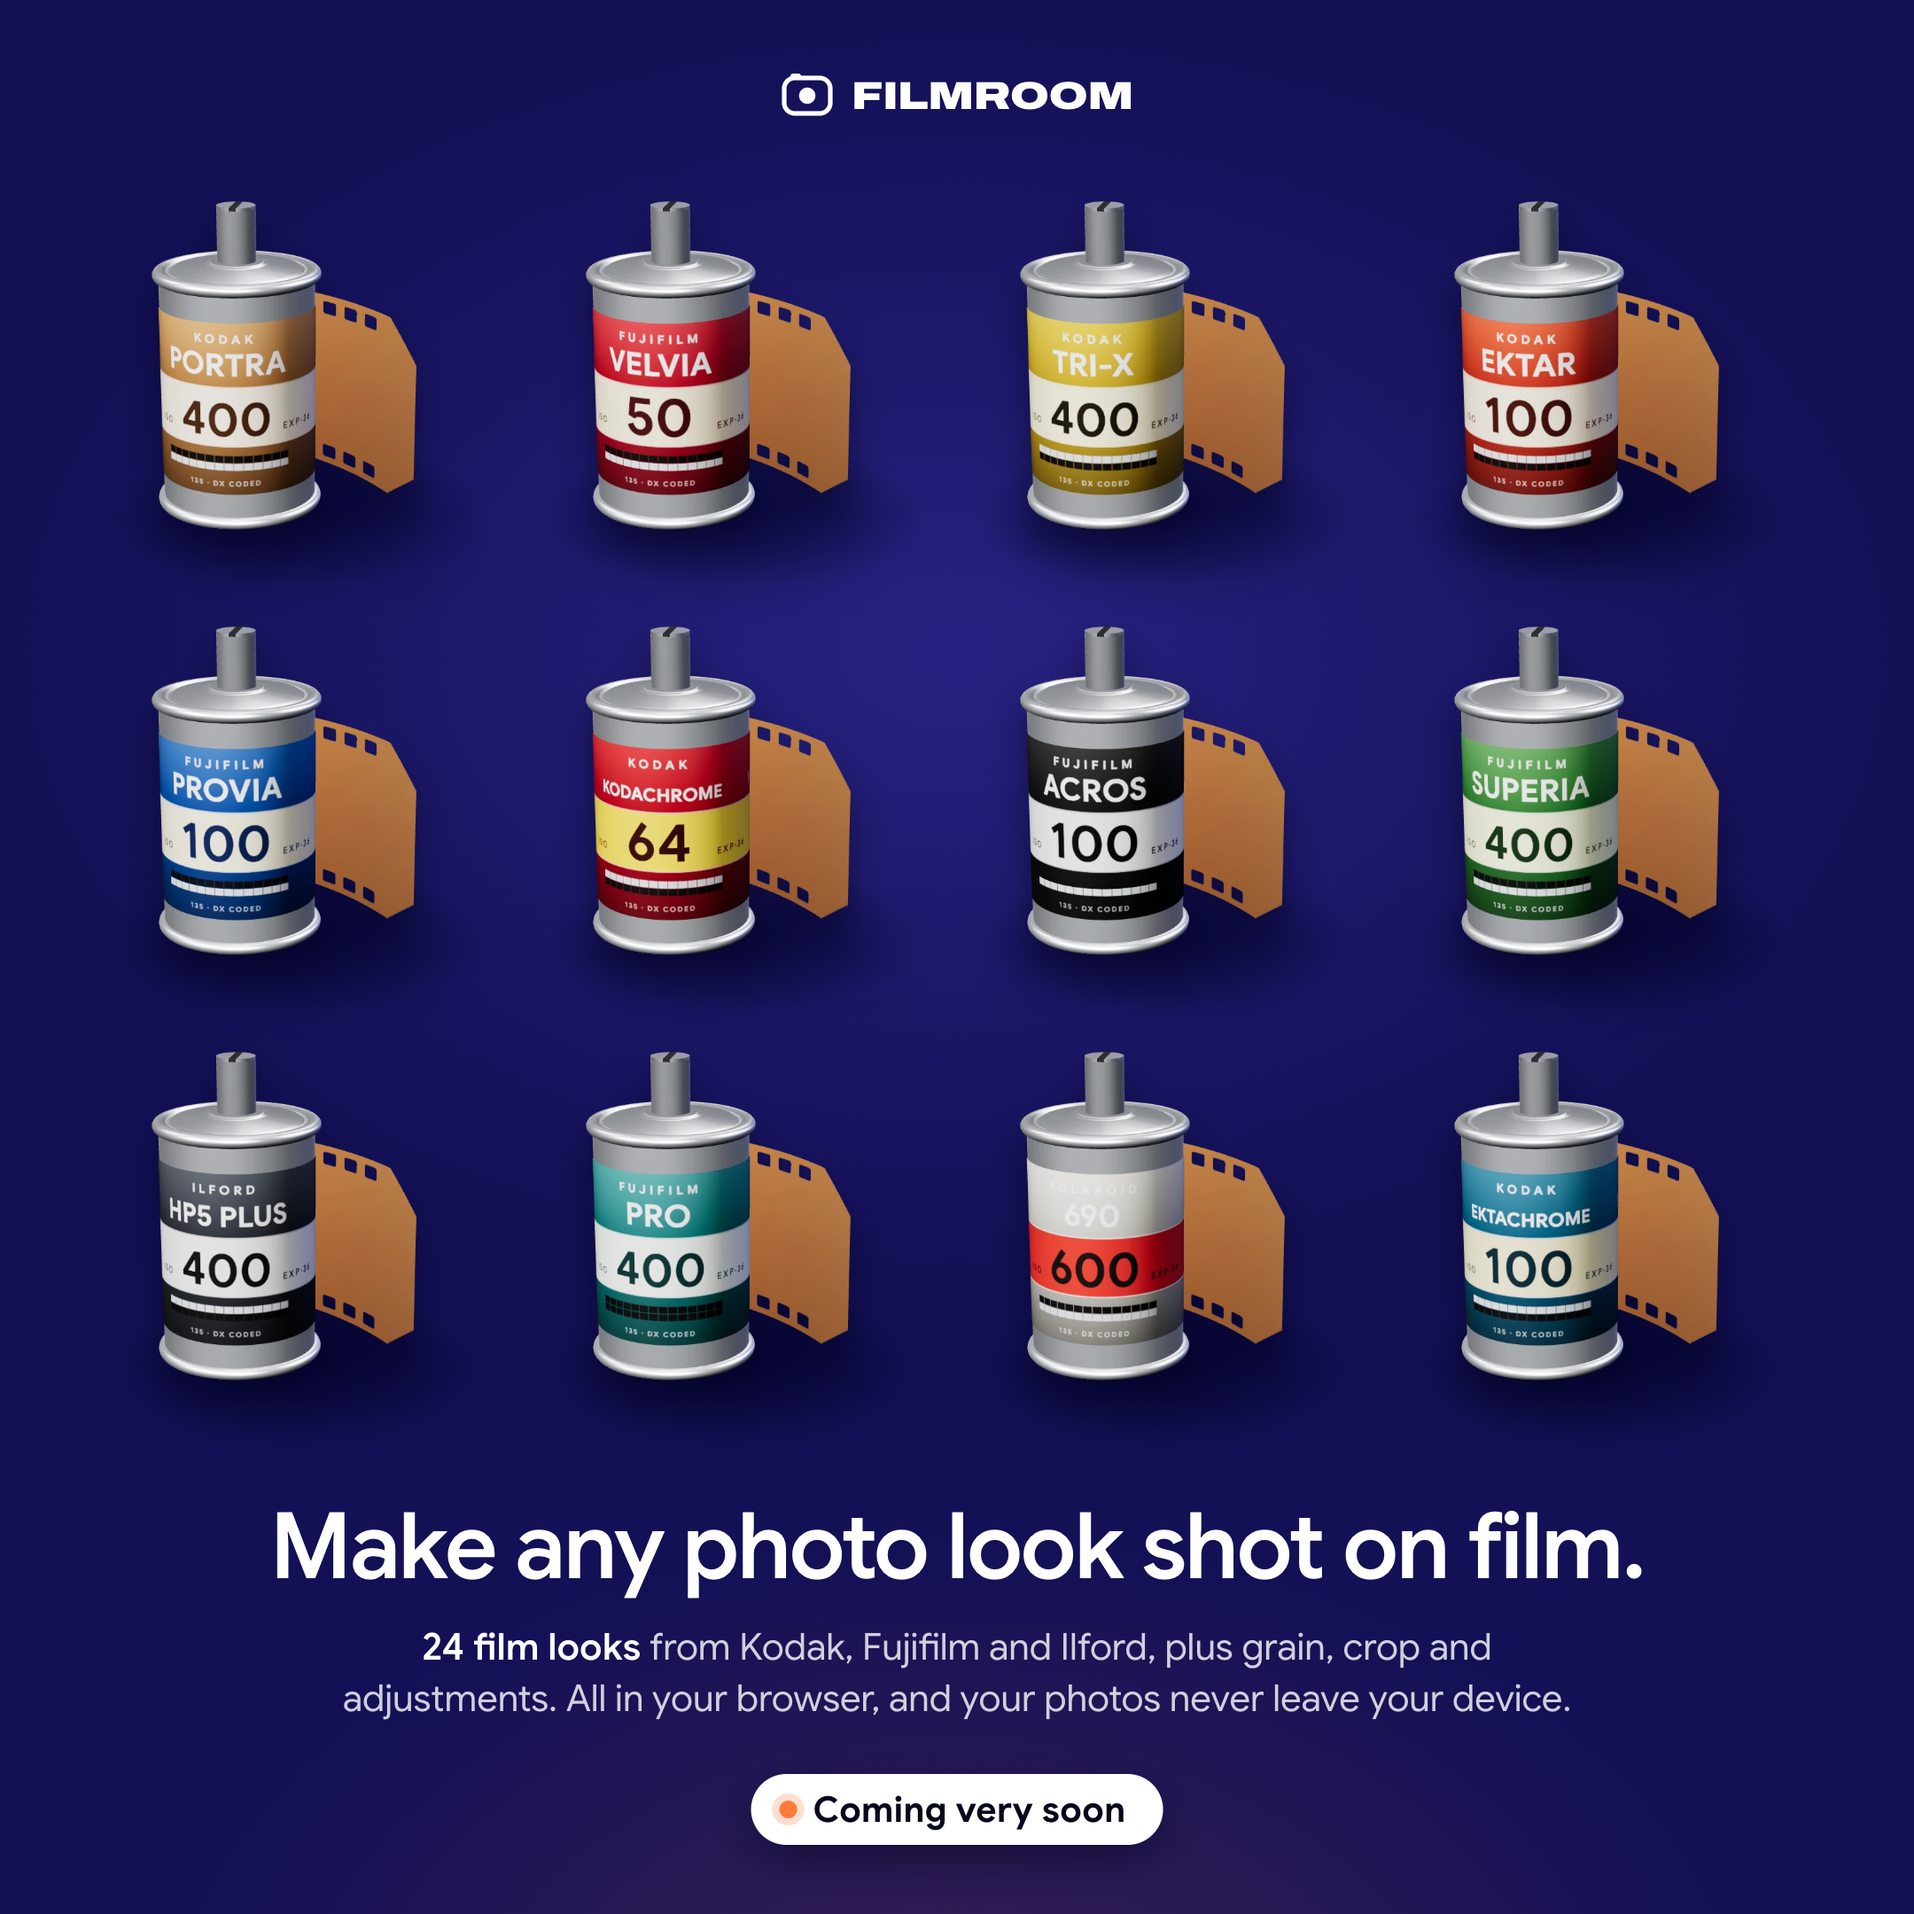
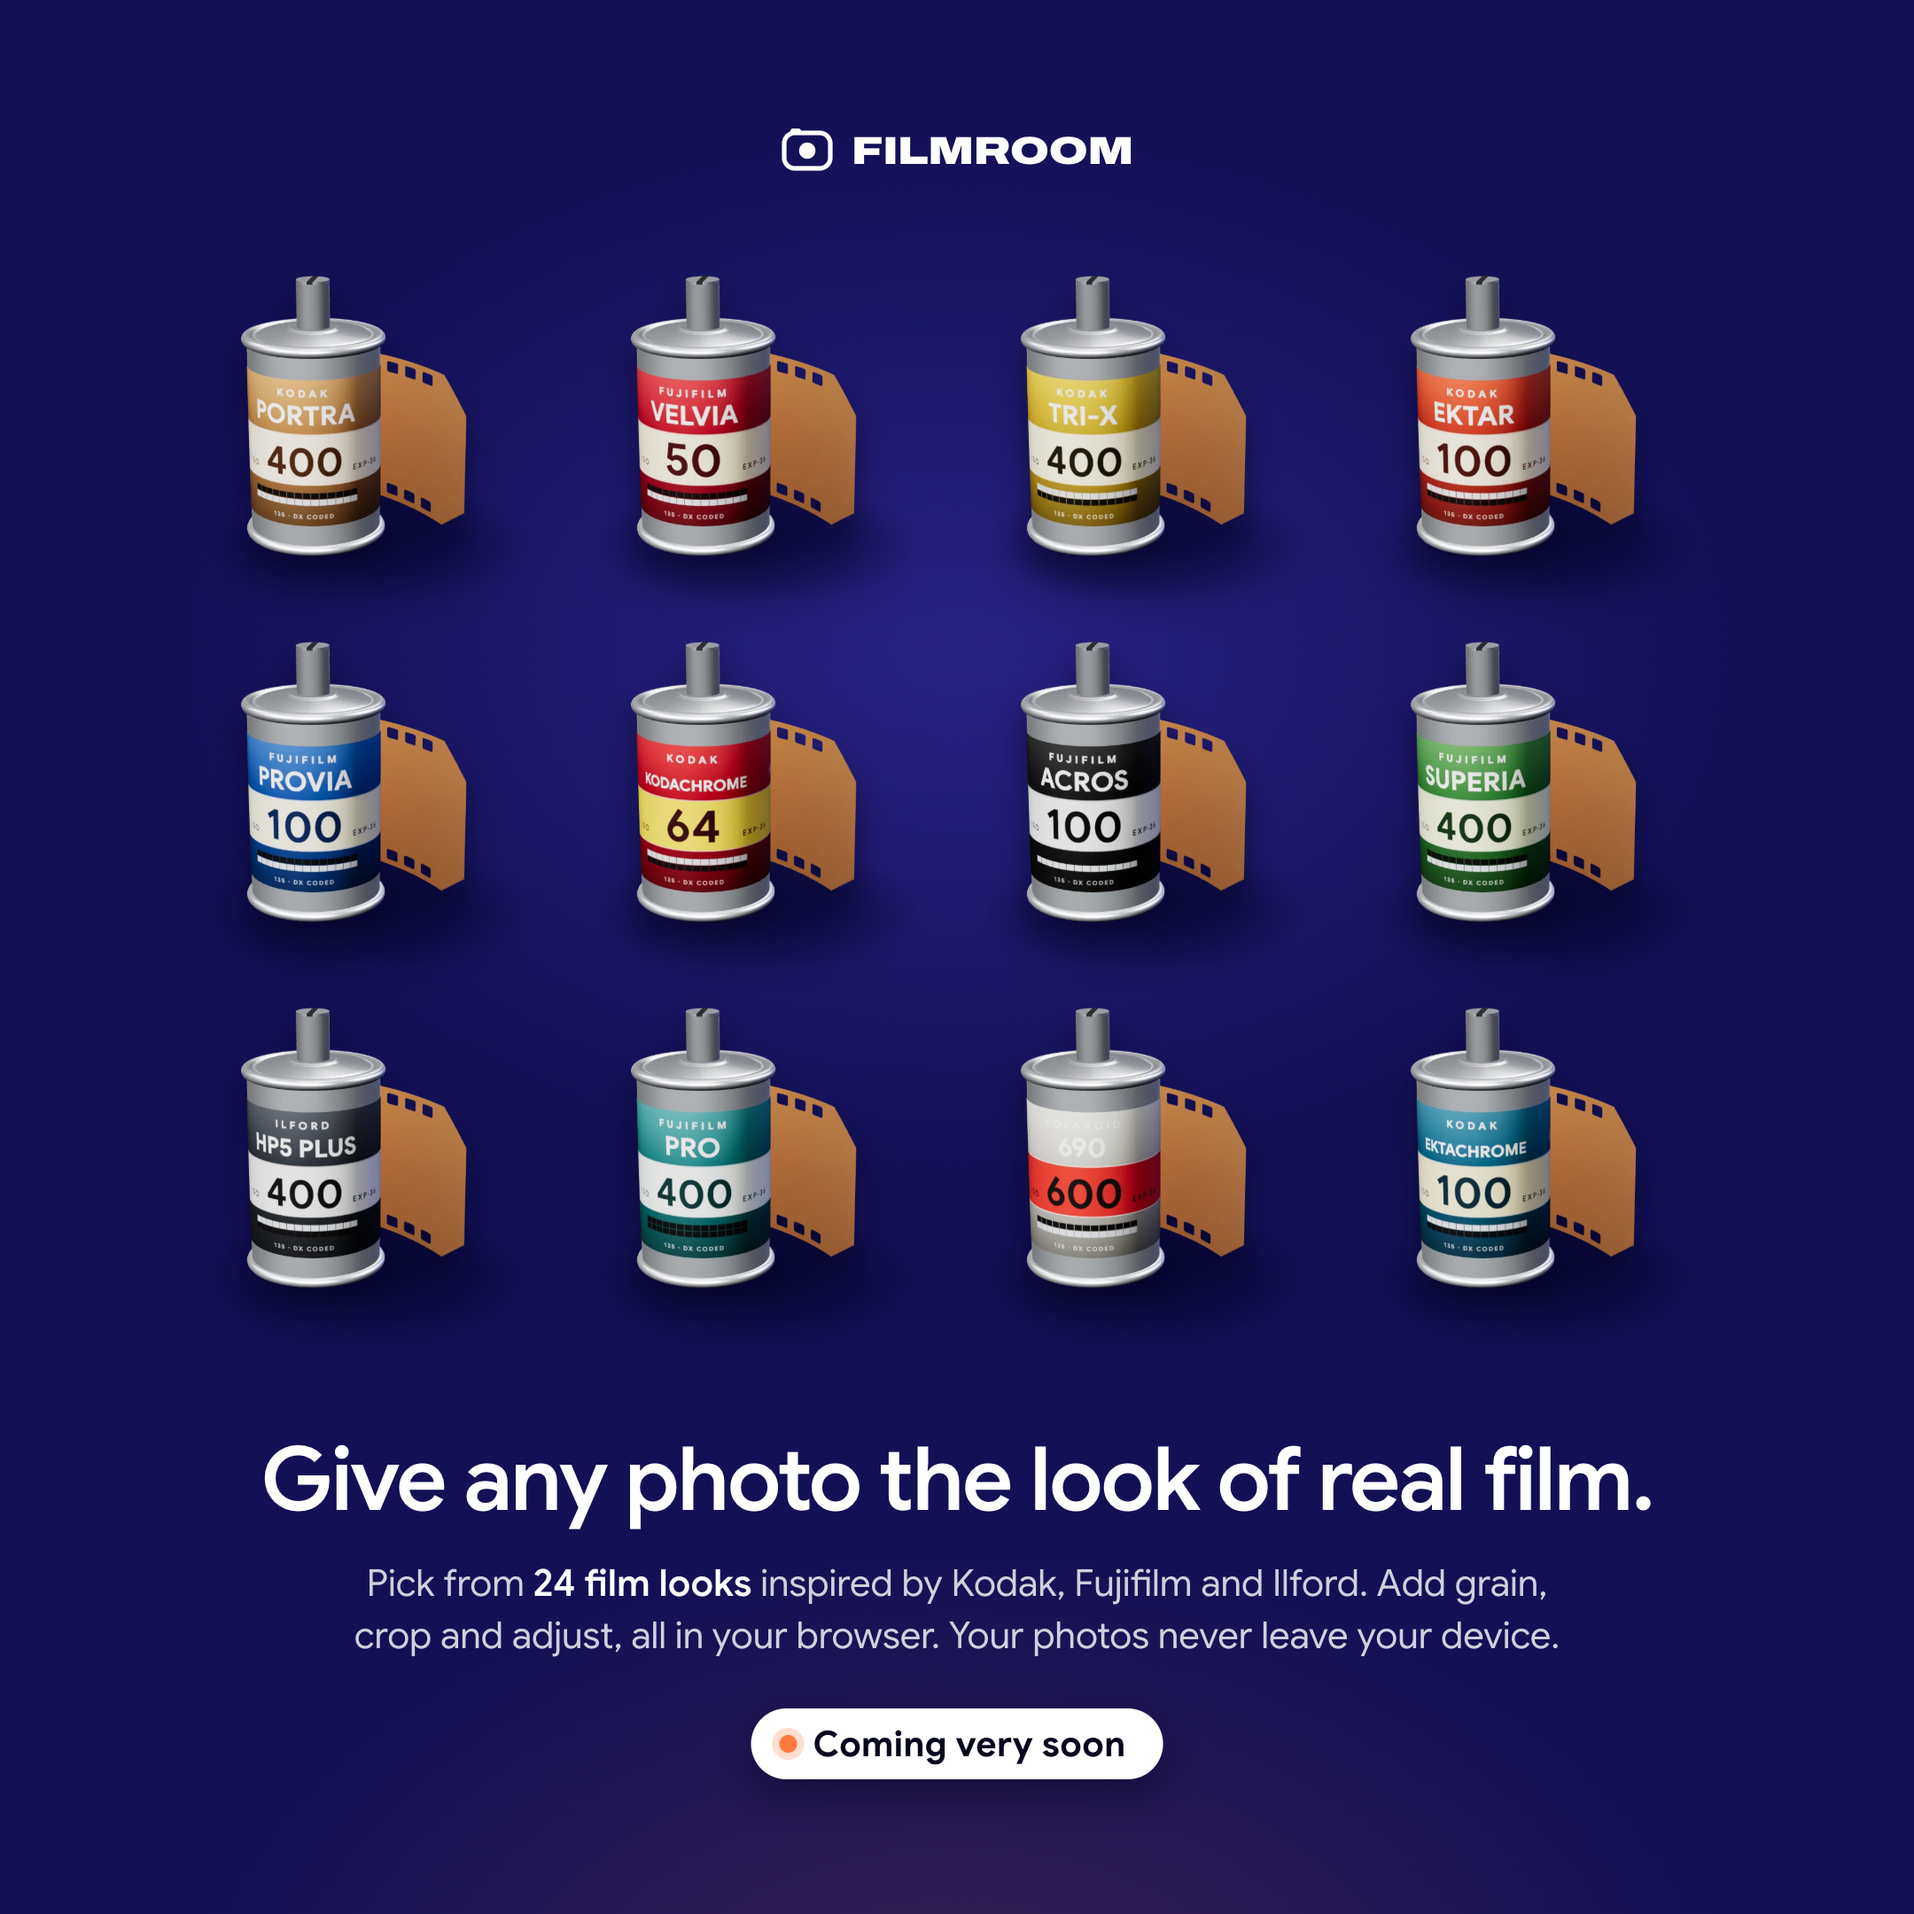
Poster: smaller, closer film rolls, more padding, corrected heading and subheading

Changed region(s): [[0.062, 0.031, 0.8995, 0.9616], [0.7134, 0.0931, 0.8995, 0.5273]]

diff --git a/poster/grid.html b/poster/grid.html
@@ -3,8 +3,9 @@
 <head>
 <meta charset="utf-8"><title>Filmroom poster: film grid</title>
 <!--
-  Square "coming soon" poster: twelve film rolls (just the films, no boxes) in a 4 x 3 grid, the Filmroom logo on top,
-  a heading, a subheading and a "Coming very soon" badge below. Rendered at 2160 x 2160 (open this page at that viewport and screenshot it).
+  Square "coming soon" poster: twelve film rolls (just the films, no boxes) in a compact 4 x 3 group, the Filmroom logo on top,
+  a heading, a subheading and a "Coming very soon" badge below, with generous padding all round.
+  Rendered at 2160 x 2160 (open this page at that viewport and screenshot it).
   Cartridges: poster/grid-art/*.webp (3D renders, see tools/render-cartridges.html).
 -->
 <link href="https://fonts.googleapis.com/css2?family=Archivo:wdth,wght@100..125,100..900&family=Google+Sans:wght@400..700&display=swap" rel="stylesheet">
@@ -14,19 +15,19 @@
   html, body { background:#000; }
   body { font-family:"Google Sans", system-ui, sans-serif; color:#fff; -webkit-font-smoothing:antialiased; }
   .poster { position:relative; width:2160px; height:2160px; overflow:hidden; background:
-      radial-gradient(70% 46% at 50% 34%, rgba(86,74,230,.30), transparent 70%),
+      radial-gradient(60% 40% at 50% 34%, rgba(86,74,230,.30), transparent 70%),
       radial-gradient(60% 40% at 50% 108%, rgba(255,122,61,.16), transparent 70%),
       var(--navy); }
-  .brand { position:absolute; top:78px; left:0; right:0; display:flex; align-items:center; justify-content:center; gap:20px;
+  .brand { position:absolute; top:140px; left:0; right:0; display:flex; align-items:center; justify-content:center; gap:20px;
     font:900 44px/1 Archivo, sans-serif; font-stretch:125%; text-transform:uppercase; letter-spacing:-.01em; }
   .brand svg { width:60px; height:60px; }
-  /* just the films: no boxes, no labels (each cartridge already carries its own name) */
-  .grid { position:absolute; left:100px; right:100px; top:176px; display:grid; grid-template-columns:repeat(4, 1fr); row-gap:0; justify-items:center; }
-  .grid img { width:446px; height:480px; object-fit:contain; filter:drop-shadow(0 26px 22px rgba(0,0,20,.5)); }
-  h1 { position:absolute; left:0; right:0; top:1692px; text-align:center; font:600 104px/1.04 "Google Sans", sans-serif; letter-spacing:-.025em; }
-  .sub { position:absolute; left:50%; transform:translateX(-50%); top:1830px; width:1640px; text-align:center; font:400 42px/1.38 "Google Sans", sans-serif; color:rgba(255,255,255,.80); text-wrap:balance; }
+  /* just the films: no boxes, no labels (each cartridge already carries its own name), kept close together */
+  .grid { position:absolute; left:50%; transform:translateX(-50%); top:268px; width:1700px; display:grid; grid-template-columns:repeat(4, 380px); column-gap:60px; row-gap:4px; }
+  .grid img { width:380px; height:409px; object-fit:contain; filter:drop-shadow(0 22px 18px rgba(0,0,20,.5)); }
+  h1 { position:absolute; left:0; right:0; top:1618px; text-align:center; font:600 100px/1.04 "Google Sans", sans-serif; letter-spacing:-.025em; }
+  .sub { position:absolute; left:50%; transform:translateX(-50%); top:1758px; width:1480px; text-align:center; font:400 42px/1.4 "Google Sans", sans-serif; color:rgba(255,255,255,.80); text-wrap:balance; }
   .sub b { color:#fff; font-weight:600; }
-  .badge { position:absolute; left:50%; transform:translateX(-50%); top:2002px; display:inline-flex; align-items:center; gap:18px; padding:20px 42px 20px 32px; border-radius:999px;
+  .badge { position:absolute; left:50%; transform:translateX(-50%); top:1928px; display:inline-flex; align-items:center; gap:18px; padding:20px 42px 20px 32px; border-radius:999px;
     background:#fff; color:var(--ink); font:700 40px/1 "Google Sans", sans-serif; letter-spacing:.01em; white-space:nowrap; box-shadow:0 18px 50px rgba(0,0,30,.45); }
   .badge i { width:20px; height:20px; border-radius:50%; background:var(--orange); box-shadow:0 0 0 8px rgba(255,122,61,.25); }
 </style>
@@ -39,8 +40,8 @@
     <img src="grid-art/prov.webp" alt="Fujifilm Provia 100F"><img src="grid-art/koda.webp" alt="Kodak Kodachrome 64"><img src="grid-art/acrs.webp" alt="Fujifilm Acros 100"><img src="grid-art/s400.webp" alt="Fujifilm Superia 400">
     <img src="grid-art/hp5.webp" alt="Ilford HP5 Plus 400"><img src="grid-art/400h.webp" alt="Fujifilm Pro 400H"><img src="grid-art/pola.webp" alt="Polaroid 690"><img src="grid-art/ekta.webp" alt="Kodak Ektachrome 100">
   </div>
-  <h1>Make any photo look shot on film.</h1>
-  <p class="sub"><b>24 film looks</b> from Kodak, Fujifilm and Ilford, plus grain, crop and adjustments. All in your browser, and your photos never leave your device.</p>
+  <h1>Give any photo the look of real film.</h1>
+  <p class="sub">Pick from <b>24 film looks</b> inspired by Kodak, Fujifilm and Ilford. Add grain, crop and adjust, all in your browser. Your photos never leave your device.</p>
   <div class="badge"><i></i>Coming very soon</div>
 </div>
 </body>
